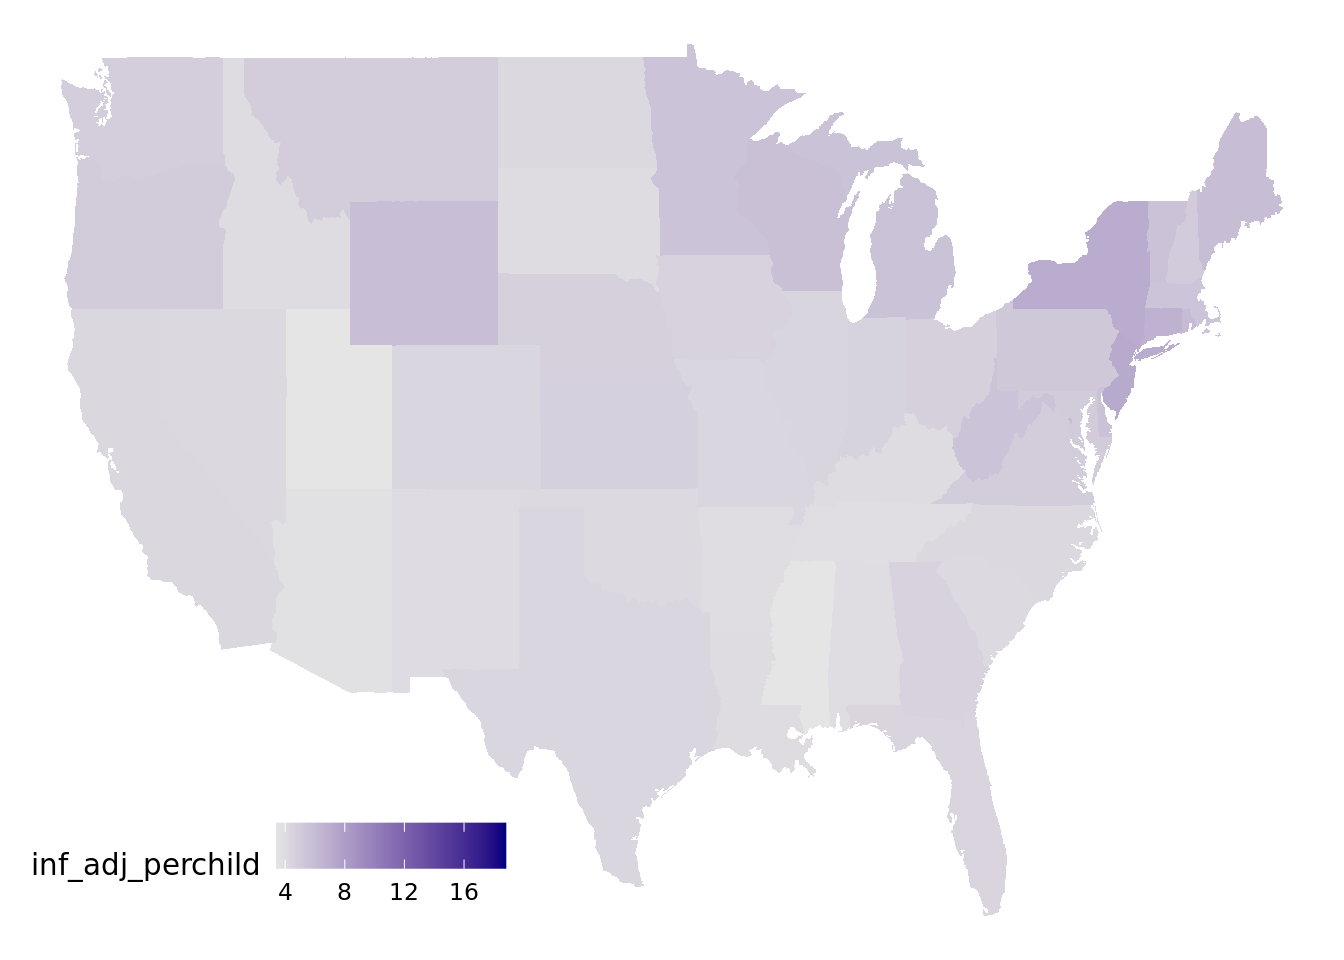
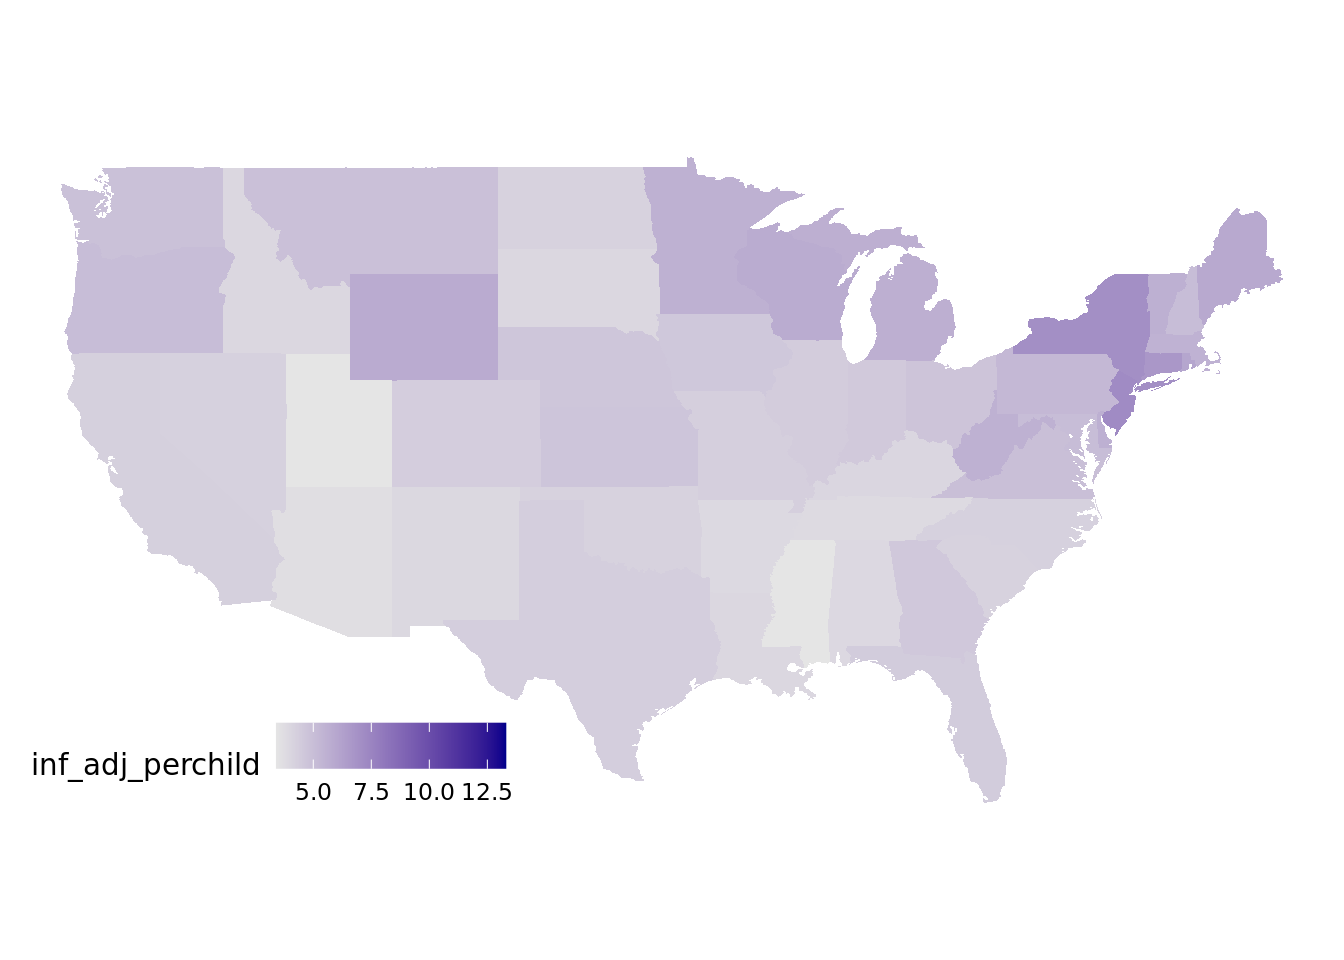
Finished last visualization

diff --git a/docs/index.html b/docs/index.html
@@ -168,7 +168,8 @@ pre > code.sourceCode > span > a:first-child::before { text-decoration: underlin
 <span id="cb1-2"><a href="#cb1-2" aria-hidden="true" tabindex="-1"></a><span class="fu">library</span>(tidymodels)</span>
 <span id="cb1-3"><a href="#cb1-3" aria-hidden="true" tabindex="-1"></a><span class="fu">library</span>(maps)</span>
 <span id="cb1-4"><a href="#cb1-4" aria-hidden="true" tabindex="-1"></a><span class="fu">library</span>(leaps)</span>
-<span id="cb1-5"><a href="#cb1-5" aria-hidden="true" tabindex="-1"></a><span class="fu">library</span>(dplyr)</span></code><button title="Copy to Clipboard" class="code-copy-button"><i class="bi"></i></button></pre></div>
+<span id="cb1-5"><a href="#cb1-5" aria-hidden="true" tabindex="-1"></a><span class="fu">library</span>(dplyr)</span>
+<span id="cb1-6"><a href="#cb1-6" aria-hidden="true" tabindex="-1"></a><span class="fu">library</span>(scales)</span></code><button title="Copy to Clipboard" class="code-copy-button"><i class="bi"></i></button></pre></div>
 </div>
 <div class="cell">
 <div class="sourceCode cell-code" id="cb2"><pre class="sourceCode r code-with-copy"><code class="sourceCode r"><span id="cb2-1"><a href="#cb2-1" aria-hidden="true" tabindex="-1"></a><span class="co">#loading datasets childcare_costs and counties from tidytuesday</span></span>
@@ -199,15 +200,17 @@ pre > code.sourceCode > span > a:first-child::before { text-decoration: underlin
 <span id="cb3-4"><a href="#cb3-4" aria-hidden="true" tabindex="-1"></a></span>
 <span id="cb3-5"><a href="#cb3-5" aria-hidden="true" tabindex="-1"></a>us_states_expenditures <span class="ot">&lt;-</span> us_states <span class="sc">|&gt;</span></span>
 <span id="cb3-6"><a href="#cb3-6" aria-hidden="true" tabindex="-1"></a>  <span class="fu">select</span>(<span class="sc">-</span>subregion) <span class="sc">|&gt;</span></span>
-<span id="cb3-7"><a href="#cb3-7" aria-hidden="true" tabindex="-1"></a>  <span class="fu">inner_join</span>(expenditures_PK12ed, <span class="fu">join_by</span>(region <span class="sc">==</span> region), <span class="at">relationship =</span> <span class="st">"many-to-many"</span>)</span></code><button title="Copy to Clipboard" class="code-copy-button"><i class="bi"></i></button></pre></div>
+<span id="cb3-7"><a href="#cb3-7" aria-hidden="true" tabindex="-1"></a>  <span class="fu">inner_join</span>(expenditures_PK12ed, <span class="fu">join_by</span>(region <span class="sc">==</span> region), <span class="at">relationship =</span> <span class="st">"many-to-many"</span>) <span class="sc">|&gt;</span> </span>
+<span id="cb3-8"><a href="#cb3-8" aria-hidden="true" tabindex="-1"></a>  <span class="fu">filter</span>(region <span class="sc">!=</span> <span class="st">"district of columbia"</span>)</span></code><button title="Copy to Clipboard" class="code-copy-button"><i class="bi"></i></button></pre></div>
 </div>
 <div class="cell">
 <div class="sourceCode cell-code" id="cb4"><pre class="sourceCode r code-with-copy"><code class="sourceCode r"><span id="cb4-1"><a href="#cb4-1" aria-hidden="true" tabindex="-1"></a><span class="fu">ggplot</span>(us_states_expenditures, <span class="fu">aes</span>(<span class="at">x =</span> long, <span class="at">y =</span> lat, <span class="at">group =</span> group, <span class="at">fill =</span> inf_adj_perchild)) <span class="sc">+</span></span>
 <span id="cb4-2"><a href="#cb4-2" aria-hidden="true" tabindex="-1"></a>  <span class="fu">geom_polygon</span>() <span class="sc">+</span></span>
 <span id="cb4-3"><a href="#cb4-3" aria-hidden="true" tabindex="-1"></a>  <span class="fu">theme_void</span>() <span class="sc">+</span> </span>
-<span id="cb4-4"><a href="#cb4-4" aria-hidden="true" tabindex="-1"></a>  <span class="fu">scale_fill_gradient</span>(<span class="at">low =</span> <span class="st">"gray90"</span>, <span class="at">high =</span> <span class="st">"navyblue"</span>) <span class="sc">+</span></span>
+<span id="cb4-4"><a href="#cb4-4" aria-hidden="true" tabindex="-1"></a>  <span class="fu">scale_fill_gradient</span>(<span class="at">low =</span> <span class="st">"gray90"</span>, <span class="at">high =</span> <span class="st">"darkblue"</span>) <span class="sc">+</span></span>
 <span id="cb4-5"><a href="#cb4-5" aria-hidden="true" tabindex="-1"></a>  <span class="fu">theme</span>(<span class="at">legend.position =</span> <span class="fu">c</span>(.<span class="dv">2</span>, .<span class="dv">1</span>),</span>
-<span id="cb4-6"><a href="#cb4-6" aria-hidden="true" tabindex="-1"></a>        <span class="at">legend.direction =</span> <span class="st">"horizontal"</span>)</span></code><button title="Copy to Clipboard" class="code-copy-button"><i class="bi"></i></button></pre></div>
+<span id="cb4-6"><a href="#cb4-6" aria-hidden="true" tabindex="-1"></a>        <span class="at">legend.direction =</span> <span class="st">"horizontal"</span>) <span class="sc">+</span> </span>
+<span id="cb4-7"><a href="#cb4-7" aria-hidden="true" tabindex="-1"></a>  <span class="fu">coord_quickmap</span>()</span></code><button title="Copy to Clipboard" class="code-copy-button"><i class="bi"></i></button></pre></div>
 <div class="cell-output-display">
 <div>
 <figure class="figure">
@@ -232,9 +235,10 @@ Caused by warning:
 <span id="cb7-5"><a href="#cb7-5" aria-hidden="true" tabindex="-1"></a><span class="fu">ggplot</span>(us_states_scores, <span class="fu">aes</span>(<span class="at">x =</span> long, <span class="at">y =</span> lat, <span class="at">group =</span> group, <span class="at">fill =</span> MN)) <span class="sc">+</span></span>
 <span id="cb7-6"><a href="#cb7-6" aria-hidden="true" tabindex="-1"></a>  <span class="fu">geom_polygon</span>() <span class="sc">+</span> </span>
 <span id="cb7-7"><a href="#cb7-7" aria-hidden="true" tabindex="-1"></a>  <span class="fu">theme_void</span>() <span class="sc">+</span> </span>
-<span id="cb7-8"><a href="#cb7-8" aria-hidden="true" tabindex="-1"></a>  <span class="fu">scale_fill_gradient</span>(<span class="at">low =</span> <span class="st">"gray90"</span>, <span class="at">high =</span> <span class="st">"navyblue"</span>) <span class="sc">+</span></span>
+<span id="cb7-8"><a href="#cb7-8" aria-hidden="true" tabindex="-1"></a>  <span class="fu">scale_fill_gradient</span>(<span class="at">low =</span> <span class="st">"gray90"</span>, <span class="at">high =</span> <span class="st">"darkblue"</span>) <span class="sc">+</span></span>
 <span id="cb7-9"><a href="#cb7-9" aria-hidden="true" tabindex="-1"></a>  <span class="fu">theme</span>(<span class="at">legend.position =</span> <span class="fu">c</span>(.<span class="dv">2</span>, .<span class="dv">1</span>),</span>
-<span id="cb7-10"><a href="#cb7-10" aria-hidden="true" tabindex="-1"></a>        <span class="at">legend.direction =</span> <span class="st">"horizontal"</span>)</span></code><button title="Copy to Clipboard" class="code-copy-button"><i class="bi"></i></button></pre></div>
+<span id="cb7-10"><a href="#cb7-10" aria-hidden="true" tabindex="-1"></a>        <span class="at">legend.direction =</span> <span class="st">"horizontal"</span>) <span class="sc">+</span> </span>
+<span id="cb7-11"><a href="#cb7-11" aria-hidden="true" tabindex="-1"></a>  <span class="fu">coord_quickmap</span>()</span></code><button title="Copy to Clipboard" class="code-copy-button"><i class="bi"></i></button></pre></div>
 <div class="cell-output-display">
 <div>
 <figure class="figure">
@@ -373,20 +377,63 @@ Caused by warning:
 <span id="cb10-16"><a href="#cb10-16" aria-hidden="true" tabindex="-1"></a>   <span class="at">MN =</span> <span class="fu">as.numeric</span>(MN)) </span>
 <span id="cb10-17"><a href="#cb10-17" aria-hidden="true" tabindex="-1"></a></span>
 <span id="cb10-18"><a href="#cb10-18" aria-hidden="true" tabindex="-1"></a>maximum_regression_model <span class="ot">&lt;-</span> <span class="fu">linear_reg</span>() <span class="sc">|&gt;</span></span>
-<span id="cb10-19"><a href="#cb10-19" aria-hidden="true" tabindex="-1"></a>  <span class="fu">fit</span>(MN <span class="sc">~</span> family_poverty <span class="sc">+</span> percentage_single_mother <span class="sc">+</span> average_center_child_care <span class="sc">+</span> average_family_child_care <span class="sc">+</span> one_parent_households <span class="sc">+</span> ratio_of_one_to_both, <span class="at">data =</span> merged_data_2018)</span></code><button title="Copy to Clipboard" class="code-copy-button"><i class="bi"></i></button></pre></div>
+<span id="cb10-19"><a href="#cb10-19" aria-hidden="true" tabindex="-1"></a>  <span class="fu">fit</span>(MN <span class="sc">~</span> family_poverty <span class="sc">+</span> percentage_single_mother <span class="sc">+</span> average_center_child_care <span class="sc">+</span> average_family_child_care <span class="sc">+</span> one_parent_households <span class="sc">+</span> ratio_of_one_to_both, <span class="at">data =</span> merged_data_2018)</span>
+<span id="cb10-20"><a href="#cb10-20" aria-hidden="true" tabindex="-1"></a></span>
+<span id="cb10-21"><a href="#cb10-21" aria-hidden="true" tabindex="-1"></a>regression_model_1 <span class="ot">&lt;-</span> <span class="fu">linear_reg</span>() <span class="sc">|&gt;</span> </span>
+<span id="cb10-22"><a href="#cb10-22" aria-hidden="true" tabindex="-1"></a>  <span class="fu">fit</span>(MN <span class="sc">~</span> family_poverty, <span class="at">data =</span> merged_data_2018)</span></code><button title="Copy to Clipboard" class="code-copy-button"><i class="bi"></i></button></pre></div>
 </div>
 <div class="cell">
 <div class="sourceCode cell-code" id="cb11"><pre class="sourceCode r code-with-copy"><code class="sourceCode r"><span id="cb11-1"><a href="#cb11-1" aria-hidden="true" tabindex="-1"></a><span class="co">#Preparing data</span></span>
 <span id="cb11-2"><a href="#cb11-2" aria-hidden="true" tabindex="-1"></a>best_states_data <span class="ot">&lt;-</span> merged_data_2018 <span class="sc">|&gt;</span> </span>
 <span id="cb11-3"><a href="#cb11-3" aria-hidden="true" tabindex="-1"></a>  <span class="fu">arrange</span>(<span class="fu">desc</span>(MN)) <span class="sc">|&gt;</span></span>
-<span id="cb11-4"><a href="#cb11-4" aria-hidden="true" tabindex="-1"></a>  <span class="fu">mutate</span>(<span class="at">achievement_level =</span> <span class="fu">if_else</span>(MN<span class="sc">&gt;=</span><span class="dv">225</span>, <span class="st">"High"</span>, <span class="st">"Low"</span>)) <span class="sc">|&gt;</span></span>
-<span id="cb11-5"><a href="#cb11-5" aria-hidden="true" tabindex="-1"></a>  <span class="fu">filter</span>(achievement_level <span class="sc">==</span> <span class="st">"High"</span>) <span class="sc">|&gt;</span></span>
-<span id="cb11-6"><a href="#cb11-6" aria-hidden="true" tabindex="-1"></a>  <span class="fu">relocate</span>(state_name) <span class="sc">|&gt;</span> </span>
-<span id="cb11-7"><a href="#cb11-7" aria-hidden="true" tabindex="-1"></a>  <span class="fu">pivot_longer</span>(</span>
-<span id="cb11-8"><a href="#cb11-8" aria-hidden="true" tabindex="-1"></a>    <span class="at">cols =</span> <span class="fu">c</span>(<span class="st">"emp_m"</span>, <span class="st">"emp_service"</span>, <span class="st">"emp_sales"</span>, <span class="st">"emp_n"</span>, <span class="st">"emp_p"</span>), </span>
-<span id="cb11-9"><a href="#cb11-9" aria-hidden="true" tabindex="-1"></a>    <span class="at">names_to =</span> <span class="st">"sector_type"</span>, </span>
-<span id="cb11-10"><a href="#cb11-10" aria-hidden="true" tabindex="-1"></a>    <span class="at">values_to =</span> <span class="st">"sector_percentage"</span></span>
-<span id="cb11-11"><a href="#cb11-11" aria-hidden="true" tabindex="-1"></a>  )</span></code><button title="Copy to Clipboard" class="code-copy-button"><i class="bi"></i></button></pre></div>
+<span id="cb11-4"><a href="#cb11-4" aria-hidden="true" tabindex="-1"></a>  <span class="fu">mutate</span>(<span class="at">achievement_level =</span> <span class="fu">if_else</span>(MN<span class="sc">&gt;=</span><span class="dv">223</span>, <span class="st">"High"</span>, <span class="st">"Low"</span>)) <span class="sc">|&gt;</span></span>
+<span id="cb11-5"><a href="#cb11-5" aria-hidden="true" tabindex="-1"></a>  <span class="fu">filter</span>(achievement_level <span class="sc">==</span> <span class="st">"High"</span>)</span>
+<span id="cb11-6"><a href="#cb11-6" aria-hidden="true" tabindex="-1"></a></span>
+<span id="cb11-7"><a href="#cb11-7" aria-hidden="true" tabindex="-1"></a>best_states_data <span class="ot">&lt;-</span> best_states_data <span class="sc">|&gt;</span></span>
+<span id="cb11-8"><a href="#cb11-8" aria-hidden="true" tabindex="-1"></a>  <span class="fu">relocate</span>(state_name) <span class="sc">|&gt;</span> </span>
+<span id="cb11-9"><a href="#cb11-9" aria-hidden="true" tabindex="-1"></a>  <span class="fu">pivot_longer</span>(</span>
+<span id="cb11-10"><a href="#cb11-10" aria-hidden="true" tabindex="-1"></a>    <span class="at">cols =</span> <span class="fu">c</span>(<span class="st">"emp_m"</span>, <span class="st">"emp_service"</span>, <span class="st">"emp_sales"</span>, <span class="st">"emp_n"</span>, <span class="st">"emp_p"</span>), </span>
+<span id="cb11-11"><a href="#cb11-11" aria-hidden="true" tabindex="-1"></a>    <span class="at">names_to =</span> <span class="st">"sector_type"</span>, </span>
+<span id="cb11-12"><a href="#cb11-12" aria-hidden="true" tabindex="-1"></a>    <span class="at">values_to =</span> <span class="st">"sector_percentage"</span></span>
+<span id="cb11-13"><a href="#cb11-13" aria-hidden="true" tabindex="-1"></a>  ) <span class="sc">|&gt;</span></span>
+<span id="cb11-14"><a href="#cb11-14" aria-hidden="true" tabindex="-1"></a>  <span class="fu">mutate</span>(<span class="at">sector_type =</span> <span class="fu">case_when</span>(</span>
+<span id="cb11-15"><a href="#cb11-15" aria-hidden="true" tabindex="-1"></a>    sector_type <span class="sc">==</span> <span class="st">"emp_m"</span> <span class="sc">~</span> <span class="st">"Management and Science"</span>, </span>
+<span id="cb11-16"><a href="#cb11-16" aria-hidden="true" tabindex="-1"></a>    sector_type <span class="sc">==</span> <span class="st">"emp_n"</span> <span class="sc">~</span> <span class="st">"Natural Resources"</span>, </span>
+<span id="cb11-17"><a href="#cb11-17" aria-hidden="true" tabindex="-1"></a>    sector_type <span class="sc">==</span> <span class="st">"emp_p"</span> <span class="sc">~</span> <span class="st">"Production"</span>, </span>
+<span id="cb11-18"><a href="#cb11-18" aria-hidden="true" tabindex="-1"></a>    sector_type <span class="sc">==</span> <span class="st">"emp_service"</span> <span class="sc">~</span> <span class="st">"Public Service"</span>,</span>
+<span id="cb11-19"><a href="#cb11-19" aria-hidden="true" tabindex="-1"></a>    sector_type <span class="sc">==</span> <span class="st">"emp_sales"</span> <span class="sc">~</span> <span class="st">"Sales and Office"</span></span>
+<span id="cb11-20"><a href="#cb11-20" aria-hidden="true" tabindex="-1"></a>    ), </span>
+<span id="cb11-21"><a href="#cb11-21" aria-hidden="true" tabindex="-1"></a>    <span class="at">state_name =</span> <span class="fu">case_when</span>(</span>
+<span id="cb11-22"><a href="#cb11-22" aria-hidden="true" tabindex="-1"></a>      state_name <span class="sc">==</span> <span class="st">"Massachusetts"</span> <span class="sc">~</span> <span class="st">"MA"</span>, </span>
+<span id="cb11-23"><a href="#cb11-23" aria-hidden="true" tabindex="-1"></a>      state_name <span class="sc">==</span> <span class="st">"New Hampshire"</span> <span class="sc">~</span> <span class="st">"NH"</span>,</span>
+<span id="cb11-24"><a href="#cb11-24" aria-hidden="true" tabindex="-1"></a>      state_name <span class="sc">==</span> <span class="st">"New Jersey"</span> <span class="sc">~</span> <span class="st">"NJ"</span>,</span>
+<span id="cb11-25"><a href="#cb11-25" aria-hidden="true" tabindex="-1"></a>      state_name <span class="sc">==</span> <span class="st">"Wyoming"</span> <span class="sc">~</span> <span class="st">"WY"</span></span>
+<span id="cb11-26"><a href="#cb11-26" aria-hidden="true" tabindex="-1"></a>    )</span>
+<span id="cb11-27"><a href="#cb11-27" aria-hidden="true" tabindex="-1"></a>  )</span>
+<span id="cb11-28"><a href="#cb11-28" aria-hidden="true" tabindex="-1"></a></span>
+<span id="cb11-29"><a href="#cb11-29" aria-hidden="true" tabindex="-1"></a><span class="co">#Grouping and summarizing data </span></span>
+<span id="cb11-30"><a href="#cb11-30" aria-hidden="true" tabindex="-1"></a>summarized_data <span class="ot">&lt;-</span> best_states_data <span class="sc">|&gt;</span></span>
+<span id="cb11-31"><a href="#cb11-31" aria-hidden="true" tabindex="-1"></a>  <span class="fu">group_by</span>(state_name, sector_type) <span class="sc">|&gt;</span></span>
+<span id="cb11-32"><a href="#cb11-32" aria-hidden="true" tabindex="-1"></a>  <span class="fu">summarize</span>(<span class="at">mean_percentage =</span> <span class="fu">mean</span>(sector_percentage)) </span></code><button title="Copy to Clipboard" class="code-copy-button"><i class="bi"></i></button></pre></div>
+<div class="cell-output cell-output-stderr">
+<pre><code>`summarise()` has grouped output by 'state_name'. You can override using the
+`.groups` argument.</code></pre>
+</div>
+</div>
+<div class="cell">
+<div class="sourceCode cell-code" id="cb13"><pre class="sourceCode r code-with-copy"><code class="sourceCode r"><span id="cb13-1"><a href="#cb13-1" aria-hidden="true" tabindex="-1"></a><span class="co">#Creating visualization</span></span>
+<span id="cb13-2"><a href="#cb13-2" aria-hidden="true" tabindex="-1"></a><span class="fu">ggplot</span>(summarized_data, <span class="fu">aes</span>(<span class="at">x =</span> state_name, <span class="at">y =</span> mean_percentage, <span class="at">fill =</span> sector_type)) <span class="sc">+</span> </span>
+<span id="cb13-3"><a href="#cb13-3" aria-hidden="true" tabindex="-1"></a>  <span class="fu">geom_bar</span>(<span class="at">stat =</span> <span class="st">"identity"</span>) <span class="sc">+</span> </span>
+<span id="cb13-4"><a href="#cb13-4" aria-hidden="true" tabindex="-1"></a>  <span class="fu">scale_fill_viridis_d</span>(<span class="at">option =</span> <span class="st">"G"</span>) <span class="sc">+</span></span>
+<span id="cb13-5"><a href="#cb13-5" aria-hidden="true" tabindex="-1"></a>  <span class="fu">theme_bw</span>() <span class="sc">+</span> </span>
+<span id="cb13-6"><a href="#cb13-6" aria-hidden="true" tabindex="-1"></a>  <span class="fu">labs</span>(<span class="at">title =</span> <span class="st">"Breakdown of Workplace Sectors </span><span class="sc">\n</span><span class="st"> by Proportion of State Population"</span>, <span class="at">x =</span> <span class="st">"State"</span>, <span class="at">y =</span> <span class="st">"Percentage of Population"</span>, <span class="at">fill =</span> <span class="st">"Sector"</span>)</span></code><button title="Copy to Clipboard" class="code-copy-button"><i class="bi"></i></button></pre></div>
+<div class="cell-output-display">
+<div>
+<figure class="figure">
+<p><img src="index_files/figure-html/visualizing-states-1.png" class="img-fluid figure-img" width="672"></p>
+</figure>
+</div>
+</div>
 </div>
 
 
